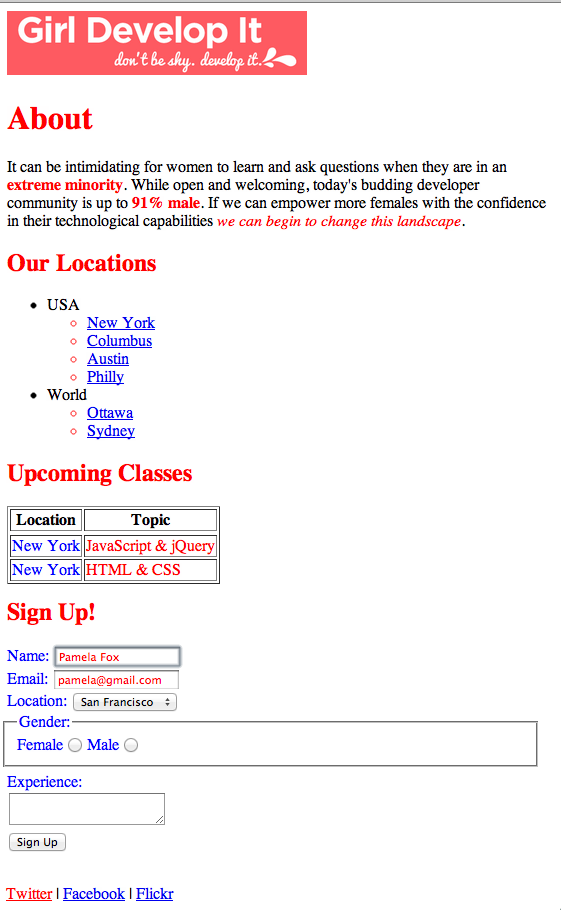
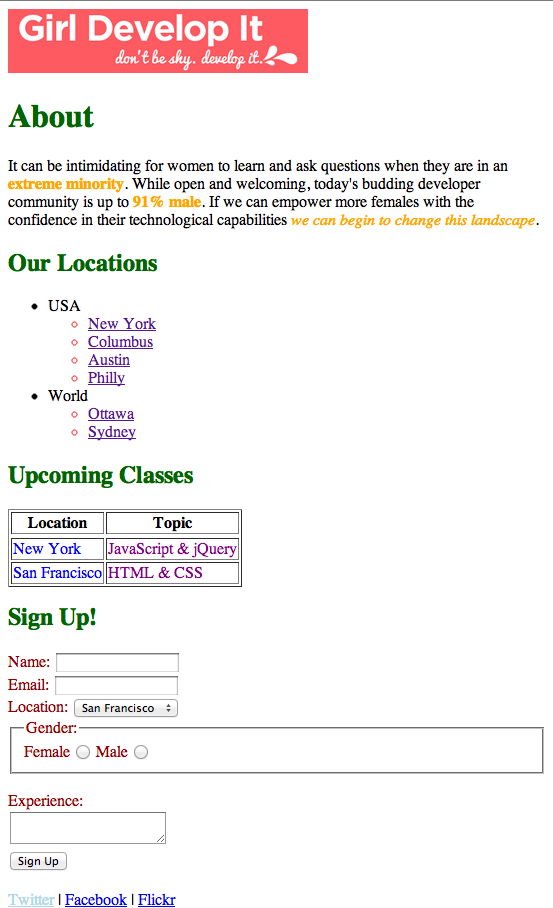
HTML/CSS improvements - linking exercises to slides, making exercises better

Changed region(s): [[0.0, 0.0925, 0.9837, 1.0], [0.0, 0.0, 1.0, 0.0925]]

diff --git a/htmlcss-1day/lesson3/slides.html b/htmlcss-1day/lesson3/slides.html
@@ -434,19 +434,7 @@ header h1 {
      </section>
     </div>
     
-   
-    
-    
-    
-    <div class="slide normal"> 
-     <header><h1>Tables: Not for Layout</h1></header> 
-     <section class="content"> 
-     <p>Before we had better techniques, tables were often used to layout a webpage, but this is now strongly discouraged.</p>
-<img src="http://farm5.static.flickr.com/4095/4930956277_a1b328a446.jpg">
-<p>We will discuss better ways to do layout when we cover CSS.</p>
-     </section>
-    </div>
-    
+  
    
     
     
@@ -560,7 +548,15 @@ This example shows a table of monthly savings.
      </section>
     </div>
     
-
+    <div class="slide normal"> 
+     <header><h1>Tables: Not for Layout</h1></header> 
+     <section class="content"> 
+     <p>Before we had better techniques, tables were often used to layout a webpage, but this is now strongly discouraged.</p>
+<img src="http://farm5.static.flickr.com/4095/4930956277_a1b328a446.jpg">
+<p>We will discuss better ways to do layout when we cover CSS.</p>
+     </section>
+    </div>
+    
 
     <div class="slide section"> 
      <header><h1>Forms</header>
@@ -830,6 +826,13 @@ while ($row = @mysql_fetch_assoc($result)) {
     </div>
    
     
+    <div class="slide normal"> 
+     <header><h1>Exercise Time</h1></header> 
+     <section class="content"> 
+     <a href="exercise_descrip.html">Exercise: Tables & Forms</a>
+     </section>
+    </div>
+    
     
     <div class="slide section"> 
      <header><h1>Iframes</header>
@@ -1054,6 +1057,13 @@ while ($row = @mysql_fetch_assoc($result)) {
   </embed>
 
 </object>
+     </section>
+    </div>
+    
+    <div class="slide normal"> 
+     <header><h1>Exercise Time</h1></header> 
+     <section class="content"> 
+     <a href="exercise_embed_descrip.html">Exercise: Embeds</a>
      </section>
     </div>
     

diff --git a/htmlcss-1day/index.html b/htmlcss-1day/index.html
@@ -103,6 +103,8 @@
        
        <h3>Room for Improvement:</h3>
        <ul>
+        <li>On the text editors slide, make sure to actually demonstrate saving a file and opening it on the desktop vs. in Cloud9,
+        as that's a source of confusion during the exercise.
         <li>Consider adding a slide about the difference between XML and HTML (particularly if the students had prior exposure to XHTML - as they will be confused about the different best practices).
         <li>Re-iterate that the <code>title</code> element goes in the <code>head</code> and is not rendered on the page (this seems a matter of great confusion for newbies).
         <li>Consider talking about the HTML as a tree structure (DOM).
@@ -186,10 +188,10 @@
          <li>Clarify font-size section better, it's confusing now. Maybe change order that the units are explained in.Possibly introduce rem sizing.
          <li>Consider adding a slide on selectors in CSS3 (nth child, odd, etc).
          <li>Add additional exercise or bonus in exercise on using web fonts (Google fonts).
-         <li>Consider introducing reset.css and normalize.css in this lesson or next one, plus exercise using them.
          <li>Consider mentioning HSL and alpha in colors section (though it's 1E8+).
          <li>Add additional exercise on colors - like implementing a color scheme from colourlovers or colorscheme site.
          <li>Make a version of in-class example that is the "before" (same with all in-class examples).
+         <li>Students find inline styles confusing. Not sure how best to remedy.</p>
         </ul> 
     </div>
 

diff --git a/htmlcss-1day/lesson4/exercise1_descrip.html b/htmlcss-1day/lesson4/exercise1_descrip.html
@@ -15,7 +15,14 @@
     <h1>CSS 1: Selectors Exercise</h1>
     <p>Starting with <a href="../lesson3/exercise_solution.html">the solution</a> from the HTML 2 exercise,
     add CSS rules to the webpage so that it looks like the screenshot below.
-    All the CSS rules should have "color: red;" or "color:blue;" as the property-value pair, and just use different selector types to style the different parts of the page.
+    </p>
+    <p>First figure out what selector you can use to select a part of the page,
+    adding <code>class</code> or <code>id</code> attributes to the HTML if necessary.
+    </p>
+    <p>Then create the CSS rule with that selector and the color property (e.g. <code>color: red</code>).
+    Useful color names are
+    <code>red</code>, <code>blue</code>, <code>green</code>, <code>yellow</code>,
+    <code>purple</code>, <code>orange</code>, <code>darkred</code>, and <code>lightblue</code>.
     </p>
     <p>Note that there are often multiple ways to achieve the same result in CSS. Try to use a mix of the different types of selectors- id, class, position in document, etc.
     </p>

diff --git a/htmlcss-1day/lesson4/exercise1_solution.html b/htmlcss-1day/lesson4/exercise1_solution.html
@@ -5,11 +5,11 @@
     <title>GirlDevelopIt</title>
   <style>
 h1, h2 {
-  color: red;
+  color: darkgreen;
 }
 
 p strong, p em {
-  color: red;
+  color: orange;
 }
 
 ul ul li {
@@ -17,7 +17,7 @@ ul ul li {
 }
 
 table td {
-  color: red;
+  color: purple;
 }
 
 .location {
@@ -25,7 +25,7 @@ table td {
 }
 
 form label, form legend {
-  color: blue;
+  color: darkred;
 }
 
 .required {
@@ -33,7 +33,7 @@ form label, form legend {
 }
 
 #twitter {
-  color: red;
+  color: lightblue;
 }
 
   </style>
@@ -78,7 +78,7 @@ form label, form legend {
      <td>JavaScript &amp; jQuery</td>
     </tr>
     <tr>
-      <td class="location">New York</td>
+      <td class="location">San Francisco</td>
       <td>HTML &amp; CSS</td>
     </tr>
    </tbody>

diff --git a/htmlcss-1day/lesson2/slides.html b/htmlcss-1day/lesson2/slides.html
@@ -884,6 +884,13 @@ Ace of Base &gt; Lady GaGa &amp; Pink &lt; Roxette <br>
     
     
     <div class="slide normal"> 
+     <header><h1>Exercise Time</h1></header> 
+     <section class="content"> 
+     <a href="exercise_descrip.html">Exercise: HTML Basics</a>
+     </section>
+    </div>
+    
+    <div class="slide normal"> 
      <header><h1>HTML Validators</h1></header> 
      <section class="content"> 
      <p>Browsers will often render HTML that has mistakes in it, using different error correction strategies.</p>

diff --git a/htmlcss-1day/lesson2/exercise_descrip.html b/htmlcss-1day/lesson2/exercise_descrip.html
@@ -14,7 +14,9 @@
   <body>
    <div class="container">
    <h1>HTML 1: Exercise</h1>
-   <p>Create a webpage that looks like the screenshot below:</p>
+   <p>Create a webpage that looks like the screenshot below.</p>
+   <p>You can copy the logo, text, and hyperlink URLs from <a href="http://www.girldevelopit.com">girldevelopit.com</a>.
+   </p>
    <p>
    <img src="exercise_screenshot.png" style="border:1px solid black;">
    </p>

diff --git a/htmlcss-1day/lesson2/exercise_solution.html b/htmlcss-1day/lesson2/exercise_solution.html
@@ -5,7 +5,7 @@
   <title>GirlDevelopIt</title>
  </head>
  <body>
-  <img src="http://girldevelopit.com/images/logo.gif" width="300">
+  <img src="http://girldevelopit.com/images/logo.gif" width="300" alt="GirlDevelopIt Logo">
 
   <h1>About</h1>
  

diff --git a/htmlcss-1day/lesson4/exercise2_solution.html b/htmlcss-1day/lesson4/exercise2_solution.html
@@ -86,7 +86,7 @@ form label, form legend {
      <td>JavaScript &amp; jQuery</td>
     </tr>
     <tr>
-      <td class="location">New York</td>
+      <td class="location">San Francisco</td>
       <td>HTML &amp; CSS</td>
     </tr>
    </tbody>
